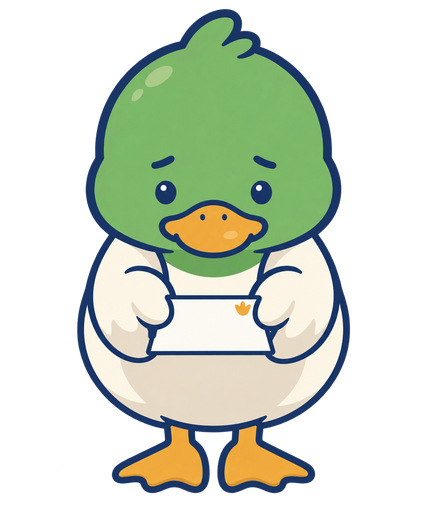
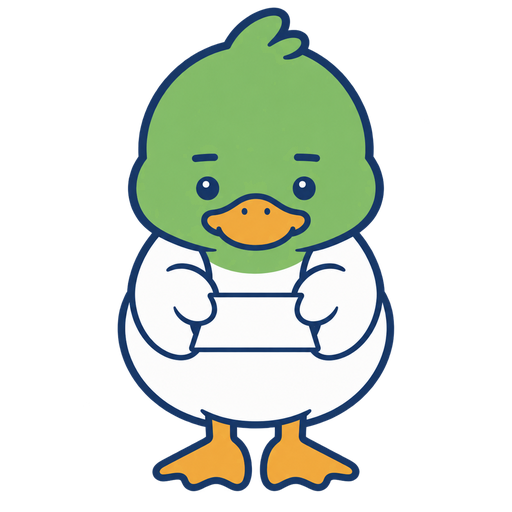
キャラクター画像を追加配置（低リスク結果・図鑑・相談・まもるカード差し替え）
- kamo_card を差し替え、kamo_relief / kamo_phone / kamo_book を追加（512px・透過・WebP＋PNG）
- 低リスク判定のサマリーカードは kamo_relief（定型注意文は不変）
- 図鑑「手口を知れば、こわくない。」／相談「迷ったら、かけて大丈夫。」を白カードで配置（110導線の周辺には置かない）
- 画像URLに ?v=2 を付与しキャッシュを更新（kamoAssetUrl に一元化）

Changed region(s): [[0.1827, 0.0312, 0.822, 0.9688], [0.4871, 0.0, 0.5785, 0.0938]]

diff --git a/src/ui/pages/Zukan.tsx b/src/ui/pages/Zukan.tsx
@@ -3,7 +3,7 @@
 
 import { useEffect, useState } from "react";
 import { getStats, getTechniques } from "../api.ts";
-import { AddresseeField, SourceNote } from "../components/common.tsx";
+import { AddresseeField, Kamo, SourceNote } from "../components/common.tsx";
 import { generateMamoruCard, shareMamoruCard } from "../mamoru.ts";
 import type { StatsJson, TechniqueDef } from "../types.ts";
 
@@ -37,13 +37,21 @@ export function Zukan() {
   return (
     <div>
       <h2 className="section-title" style={{ marginTop: 0 }}>手口図鑑</h2>
-      <p style={{ marginTop: 0 }}>
-        詐欺の被害は高齢者に限りません。ニセ警察詐欺は若い世代を含む幅広い世代で急増しており、
-        SNS型投資詐欺・サポート詐欺・架空料金請求も働く世代が多く狙われています。
-      </p>
-      <p className="source-note" style={{ marginTop: 0 }}>
-        分類・実例フレーズ・被害傾向は警察庁・警視庁の公表資料に基づきます。
-      </p>
+      <div className="card">
+        <p className="kamo-lead">手口を知れば、こわくない。</p>
+        <div style={{ display: "flex", alignItems: "center", gap: 12, marginTop: 6 }}>
+          <div style={{ flex: 1, minWidth: 0 }}>
+            <p style={{ margin: 0 }}>
+              詐欺の被害は高齢者に限りません。ニセ警察詐欺は若い世代を含む幅広い世代で急増しており、
+              SNS型投資詐欺・サポート詐欺・架空料金請求も働く世代が多く狙われています。
+            </p>
+            <p className="source-note" style={{ margin: "6px 0 0" }}>
+              分類・実例フレーズ・被害傾向は警察庁・警視庁の公表資料に基づきます。
+            </p>
+          </div>
+          <Kamo pose="book" size={88} alt="本を読んで手口を学ぶサギカモ" />
+        </div>
+      </div>
 
       {techniques.techniques.map((t) => (
         <details key={t.id} className="card zukan-card">

diff --git a/src/ui/pages/Consult.tsx b/src/ui/pages/Consult.tsx
@@ -2,7 +2,7 @@
 
 import { useEffect, useState } from "react";
 import { getContacts } from "../api.ts";
-import { SourceNote } from "../components/common.tsx";
+import { Kamo, SourceNote } from "../components/common.tsx";
 import type { ContactsJson } from "../types.ts";
 
 export function Consult() {
@@ -31,6 +31,18 @@ export function Consult() {
       <div className="consult-card">
         <a className="tel" href="tel:188">188</a>
         <p style={{ margin: "4px 0 0" }}>契約・支払い・買い物のトラブル（消費者ホットライン）</p>
+      </div>
+
+      {/* キャラクターは緊急導線（110）の周辺には置かず、区市町村窓口の導入部にのみ配置する */}
+      <div className="card" style={{ marginTop: 12 }}>
+        <p className="kamo-lead">迷ったら、かけて大丈夫。</p>
+        <div style={{ display: "flex", alignItems: "center", gap: 12, marginTop: 6 }}>
+          <p style={{ margin: 0, flex: 1, minWidth: 0 }}>
+            「こんなことで電話していいのかな」と思うような内容でも、相談窓口はそのためにあります。
+            ひとりで抱え込まず、早めにご相談ください。
+          </p>
+          <Kamo pose="phone" size={88} alt="受話器で相談の電話をかけるサギカモ" />
+        </div>
       </div>
 
       <h2 className="section-title">お住まいの区市町村の高齢者相談窓口</h2>

diff --git a/src/ui/components/common.tsx b/src/ui/components/common.tsx
@@ -12,15 +12,21 @@ const ACTION_HREF: Partial<Record<ActionId, string>> = {
   call_110: "tel:110",
 };
 
-export type KamoPose = "base" | "inspect" | "stop" | "card";
+export type KamoPose = "base" | "inspect" | "stop" | "card" | "relief" | "phone" | "book";
+
+/** 画像を差し替えたときに上げる（ブラウザ/CDNキャッシュを確実に更新するためのクエリ） */
+const KAMO_ASSET_VERSION = "2";
+export function kamoAssetUrl(pose: KamoPose, ext: "png" | "webp"): string {
+  return `/assets/kamo/kamo_${pose}.${ext}?v=${KAMO_ASSET_VERSION}`;
+}
 
 /** キャラクター画像（WebP＋PNGフォールバック）。白系背景のカード上にのみ配置すること */
 export function Kamo({ pose, size, alt }: { pose: KamoPose; size: number; alt?: string }) {
   return (
     <picture>
-      <source srcSet={`/assets/kamo/kamo_${pose}.webp`} type="image/webp" />
+      <source srcSet={kamoAssetUrl(pose, "webp")} type="image/webp" />
       <img
-        src={`/assets/kamo/kamo_${pose}.png`}
+        src={kamoAssetUrl(pose, "png")}
         alt={alt ?? "サギカモのキャラクター"}
         width={size}
         height={size}

diff --git a/src/ui/mamoru.ts b/src/ui/mamoru.ts
@@ -2,6 +2,8 @@
 // やさしい日本語・大きな文字（spec）。断定表現は使わない（内容は定型文＋判定結果の特徴のみ）。
 // 画像はブラウザ内で生成し、サーバーへ送信しない。
 
+import { kamoAssetUrl } from "./components/common.tsx";
+
 export interface MamoruCardParams {
   addressee?: string | null; // 宛名（例: おかあさんへ）。画像にのみ描画し、保存しない
   riskLabel: string | null; // 例: 要注意（図鑑からの生成時はnull）
@@ -69,7 +71,7 @@ export async function generateMamoruCard(p: MamoruCardParams): Promise<{ blob: B
   ctx.font = font(40);
   const regionLines = p.regionLine ? wrapText(ctx, p.regionLine, CONTENT_W - 20) : [];
 
-  const kamo = await loadImage("/assets/kamo/kamo_card.png");
+  const kamo = await loadImage(kamoAssetUrl("card", "png"));
   const addressee = (p.addressee ?? "").trim();
   const kamoH = 150; // キャラクター＋宛名の白い帯（ヘッダーの紺の上には置かない）
   const stripH = kamo || addressee ? kamoH + 30 : 0;

diff --git a/src/ui/pages/Result.tsx b/src/ui/pages/Result.tsx
@@ -84,7 +84,8 @@ export function Result({ result, isDemoJudgement }: { result: JudgeResponse; isD
             )}
             {riskInfo.headline && <p className="summary-headline">{riskInfo.headline}</p>}
           </div>
-          <Kamo pose={result.risk === "low" ? "base" : "stop"} size={72} alt={result.risk === "low" ? "ほほえむサギカモ" : "手を前に出して止めるサギカモ"} />
+          {/* 低リスクは「ほっと一息」。ただし定型注意文（LOW_RISK_NOTICE）はそのまま表示する */}
+          <Kamo pose={result.risk === "low" ? "relief" : "stop"} size={72} alt={result.risk === "low" ? "ほっと一息つくサギカモ" : "手を前に出して止めるサギカモ"} />
         </div>
 
         <div className="summary-data">

diff --git a/src/ui/styles.css b/src/ui/styles.css
@@ -80,6 +80,8 @@ main { flex: 1; padding: 16px; padding-bottom: 8px; }
   border-radius: 14px; padding: 12px 14px; margin-bottom: 14px; text-decoration: none; color: var(--text);
 }
 .hero-lead { margin: 0; font-size: 1rem; color: var(--text-sub); }
+/* キャラクターに添える一言（図鑑・相談） */
+.kamo-lead { margin: 0; font-size: 1.25rem; font-weight: 800; color: var(--navy); line-height: 1.4; }
 .hero-number { margin: 0; font-size: 2.25rem; font-weight: 800; color: var(--navy); line-height: 1.2; }
 .hero-unit { font-size: 1.125rem; margin-left: 4px; }
 .hero-link { margin: 6px 0 0; font-size: 1rem; font-weight: 700; color: var(--navy); }
